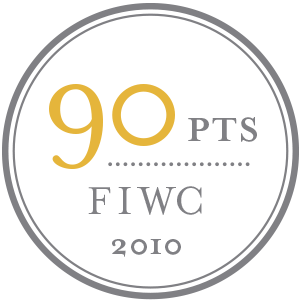
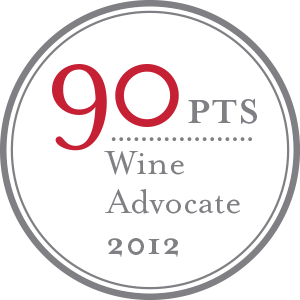
wine advocate award
90 pts gr malbec

Changed region(s): [[0.0, 0.0, 1.0, 1.0], [0.15, 0.21, 0.87, 0.72], [0.36, 0.78, 0.6, 0.87]]

diff --git a/yes/index.html b/yes/index.html
@@ -570,8 +570,8 @@
 						<div class="team-img1">
 							<img src="images/awards/08.png" alt=""	/>
 						</div>
-						<h5>FIWC<br></h5>
-						<div class="team-subtext1">2010 Premium Cabernet Sauvignon - Mendoza</div>
+						<h5>Wine<br>Advocate</h5>
+						<div class="team-subtext1">2012 Grand Reserve Malbec - Mendoza</div>
 						<p></p>
 					</div>
 				</div>
@@ -581,7 +581,7 @@
 							<img  src="images/awards/06.png" alt="" />
 						</div>
 						<h5>Wine<br>Advocate</h5>
-						<div class="team-subtext">2012 Grand Reserve Cabernet Sauvignon</div>
+						<div class="team-subtext">2012 Grand Reserve Cabernet Sauvignon - Mendoza</div>
 						<p></p>
 					</div>
 				</div>
